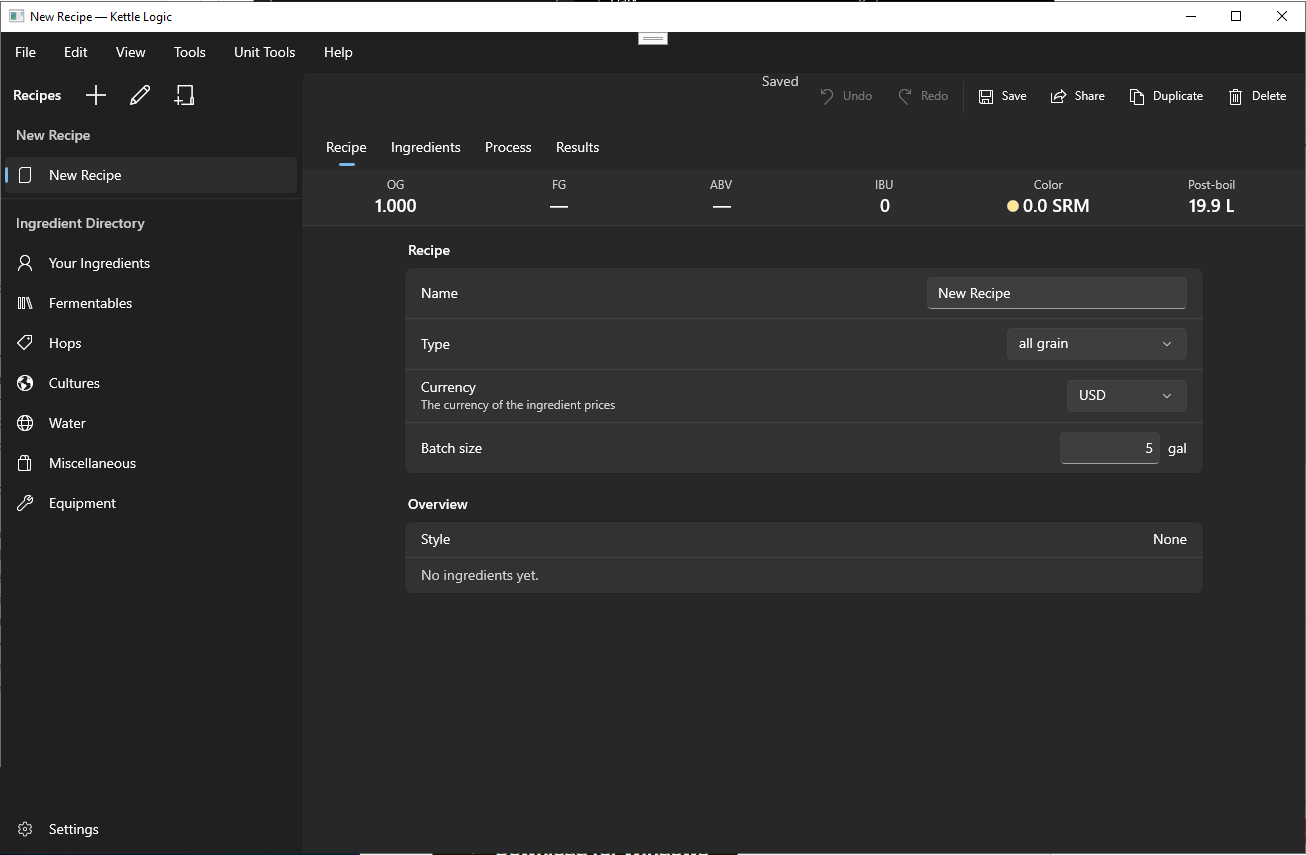
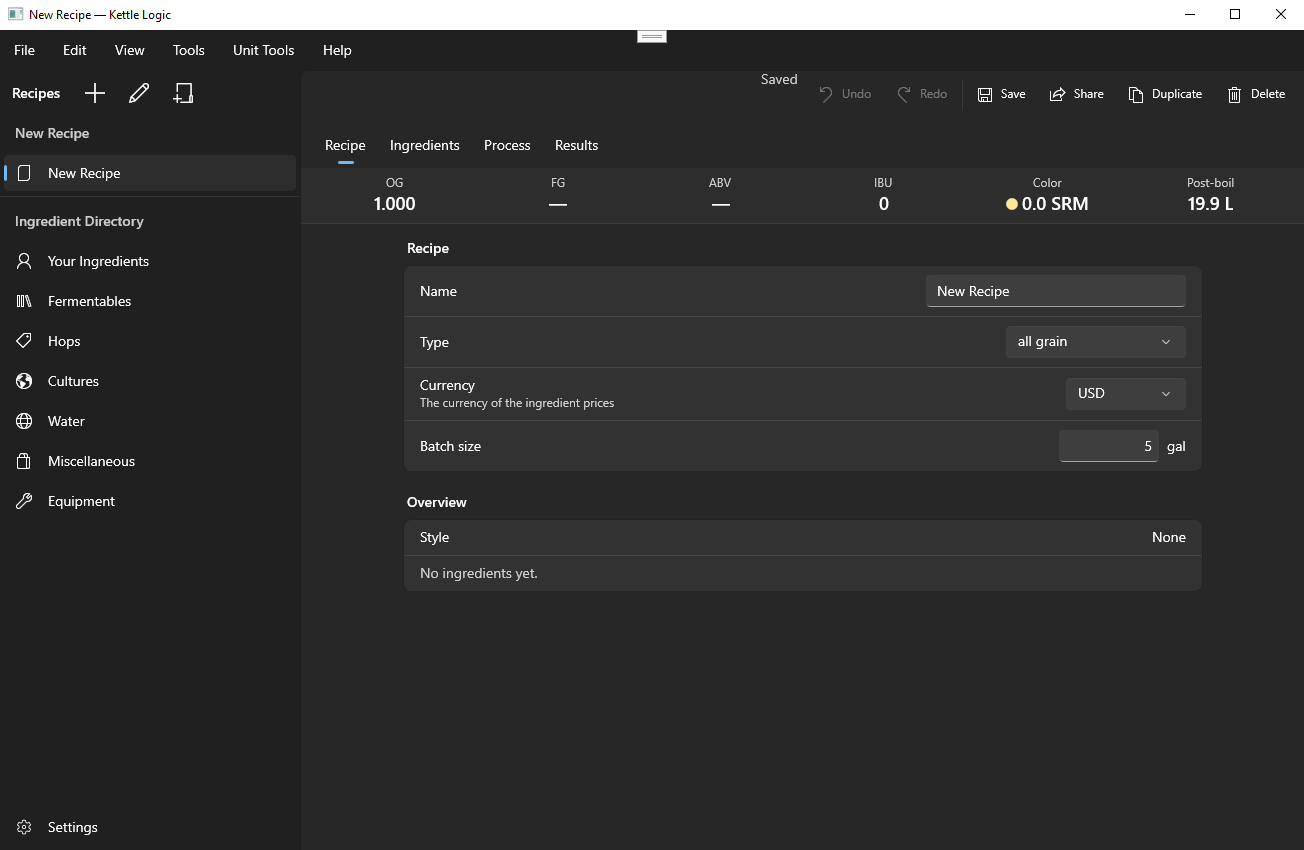
Change screenshots

diff --git a/index.html b/index.html
@@ -141,6 +141,11 @@ try { var t = localStorage.getItem("theme"); if (t === "light" || t === "dark") 
   .finale .os-select { background: transparent; color: var(--finale-fg); border-color: #6b6159; }
   .finale .os-select:hover { border-color: var(--finale-fg); }
   .finale .os-select option { background: var(--finale-bg); color: var(--finale-fg); }
+  .hash-line { margin: 14px 0 0; max-width: 40ch; font-size: 0.85rem; line-height: 1.45; color: var(--stout-soft); }
+  .hash-line span { font-weight: 600; }
+  .hash-line code { display: block; margin: 2px 0; font-family: ui-monospace, "SF Mono", Menlo, Consolas, monospace; word-break: break-all; }
+  .hash-line a { color: inherit; font-weight: 600; text-underline-offset: 3px; }
+  .finale .hash-line { color: var(--finale-soft); }
   .fine { margin-top: 6px; font-size: 0.95rem; color: var(--stout-soft); }
   .fine a { text-underline-offset: 3px; }
 
@@ -308,6 +313,7 @@ try { var t = localStorage.getItem("theme"); if (t === "light" || t === "dark") 
           <svg viewBox="0 0 24 24" fill="none" stroke="currentColor" stroke-width="2.4" stroke-linecap="round" stroke-linejoin="round" aria-hidden="true"><path d="M12 3v12m0 0-5-5m5 5 5-5M5 20h14"/></svg>
           <span class="js-download-label">Download Kettle Logic</span>
         </a>
+        <p class="hash-line js-hash-line" hidden><span>SHA-256</span> <code class="js-hash-inline"></code> <a class="js-open-signing" href="#verify-download">How to verify</a></p>
         <label class="others">Download for
           <select class="os-select js-os-select" aria-label="Choose your operating system">
             <option value="mac">Mac</option>
@@ -568,6 +574,7 @@ try { var t = localStorage.getItem("theme"); if (t === "light" || t === "dark") 
         <svg viewBox="0 0 24 24" fill="none" stroke="currentColor" stroke-width="2.4" stroke-linecap="round" stroke-linejoin="round" aria-hidden="true"><path d="M12 3v12m0 0-5-5m5 5 5-5M5 20h14"/></svg>
         <span class="js-download-label">Download Kettle Logic</span>
       </a>
+      <p class="hash-line js-hash-line" hidden><span>SHA-256</span> <code class="js-hash-inline"></code> <a class="js-open-signing" href="#verify-download">How to verify</a></p>
       <label class="others">Download for
         <select class="os-select js-os-select" aria-label="Choose your operating system">
           <option value="mac">Mac</option>
@@ -628,6 +635,7 @@ try { var t = localStorage.getItem("theme"); if (t === "light" || t === "dark") 
     /* Point every download button at the chosen system. On phones, where nothing here can be installed, the buttons stay inactive until a system is chosen. */
     function choose(id) {
       const url = DOWNLOADS[id];
+      document.documentElement.dataset.os = id;
       document.querySelectorAll(".js-download").forEach(a => {
         if (url) {
           a.href = url;
@@ -639,6 +647,8 @@ try { var t = localStorage.getItem("theme"); if (t === "light" || t === "dark") 
       });
       document.querySelectorAll(".js-download-label").forEach(s => s.textContent = names[id] ? "Download for " + names[id] : "Download Kettle Logic");
       document.querySelectorAll(".js-win-note").forEach(p => p.hidden = id !== "win");
+      document.querySelectorAll(".js-hash-inline").forEach(c => c.textContent = SHA256[id] || "");
+      document.querySelectorAll(".js-hash-line").forEach(p => p.hidden = !SHA256[id]);
       selects.forEach(sel => sel.value = id);
     }
 
